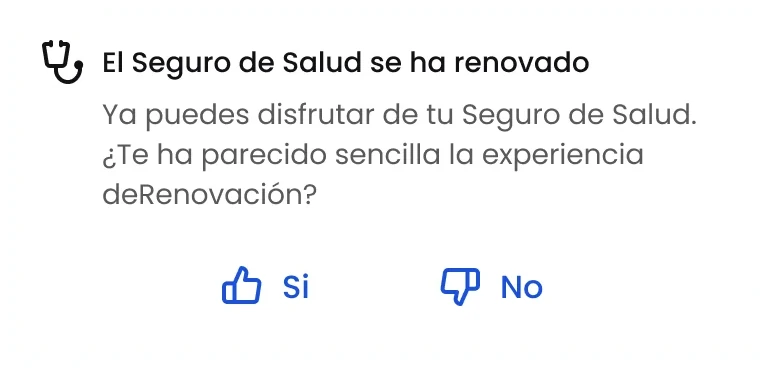
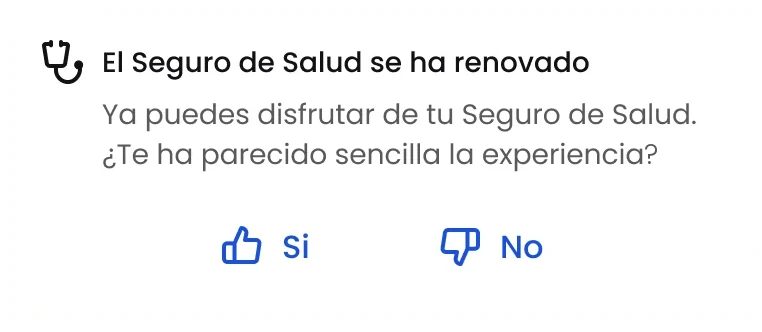
Renovaciones: pregunta in-app sin «deRenovación»
Claude-Session: https://claude.ai/code/session_01KdCYXQfu29BfYb63X4gCzQ

diff --git a/dist/portfolio.html b/dist/portfolio.html
@@ -2436,7 +2436,7 @@ const PROJECTS = [
                'Combinamos el seguimiento de incidencias con una pregunta en la app justo después de renovar: «¿Te ha parecido sencilla la experiencia?»']},
     {k:'p', t:['We analysed the answers by company and type of process to see where to dig deeper. In parallel, Product and Operations logged incidents and compared them with the previous campaign.',
                'Analizamos las respuestas por empresa y tipo de proceso para identificar dónde profundizar. En paralelo, Producto y Operaciones registraron las incidencias y las compararon con la campaña anterior.']},
-    {k:'ba', n:1, max:560, items:[[['assets/renewals-feedback-a.webp','assets/renewals-feedback-b.webp'],'',{x:36,y:76}]], cap:['The in-app question right after renewing and, after answering, the thank-you state.','La pregunta in-app justo después de renovar y, al responder, el estado de agradecimiento.']},
+    {k:'ba', n:1, max:560, items:[[['assets/renewals-feedback-a.webp','assets/renewals-feedback-b.webp'],'',{x:35,y:68}]], cap:['The in-app question right after renewing and, after answering, the thank-you state.','La pregunta in-app justo después de renovar y, al responder, el estado de agradecimiento.']},
     {k:'split', meta:['Gradual rollout: 144 companies in December 2025, 682 by 1 January 2026 · In-app question right after renewing · 702 answers','Lanzamiento progresivo: 144 empresas en diciembre de 2025 y 682 a 1 de enero de 2026 · Pregunta in-app justo después de renovar · 702 respuestas'],
       h:['The campaign in figures','La campaña en cifras'],
       items:[[['Positive answers','Respuestas positivas'],['89%','89 %'],['626 of 702 answers.','626 de 702 respuestas.'],'up'],

diff --git a/index.html b/index.html
@@ -2444,7 +2444,7 @@ const PROJECTS = [
                'Combinamos el seguimiento de incidencias con una pregunta en la app justo después de renovar: «¿Te ha parecido sencilla la experiencia?»']},
     {k:'p', t:['We analysed the answers by company and type of process to see where to dig deeper. In parallel, Product and Operations logged incidents and compared them with the previous campaign.',
                'Analizamos las respuestas por empresa y tipo de proceso para identificar dónde profundizar. En paralelo, Producto y Operaciones registraron las incidencias y las compararon con la campaña anterior.']},
-    {k:'ba', n:1, max:560, items:[[['assets/renewals-feedback-a.webp','assets/renewals-feedback-b.webp'],'',{x:36,y:76}]], cap:['The in-app question right after renewing and, after answering, the thank-you state.','La pregunta in-app justo después de renovar y, al responder, el estado de agradecimiento.']},
+    {k:'ba', n:1, max:560, items:[[['assets/renewals-feedback-a.webp','assets/renewals-feedback-b.webp'],'',{x:35,y:68}]], cap:['The in-app question right after renewing and, after answering, the thank-you state.','La pregunta in-app justo después de renovar y, al responder, el estado de agradecimiento.']},
     {k:'split', meta:['Gradual rollout: 144 companies in December 2025, 682 by 1 January 2026 · In-app question right after renewing · 702 answers','Lanzamiento progresivo: 144 empresas en diciembre de 2025 y 682 a 1 de enero de 2026 · Pregunta in-app justo después de renovar · 702 respuestas'],
       h:['The campaign in figures','La campaña en cifras'],
       items:[[['Positive answers','Respuestas positivas'],['89%','89 %'],['626 of 702 answers.','626 de 702 respuestas.'],'up'],

diff --git a/src/content.js b/src/content.js
@@ -420,7 +420,7 @@ const PROJECTS = [
                'Combinamos el seguimiento de incidencias con una pregunta en la app justo después de renovar: «¿Te ha parecido sencilla la experiencia?»']},
     {k:'p', t:['We analysed the answers by company and type of process to see where to dig deeper. In parallel, Product and Operations logged incidents and compared them with the previous campaign.',
                'Analizamos las respuestas por empresa y tipo de proceso para identificar dónde profundizar. En paralelo, Producto y Operaciones registraron las incidencias y las compararon con la campaña anterior.']},
-    {k:'ba', n:1, max:560, items:[[['assets/renewals-feedback-a.webp','assets/renewals-feedback-b.webp'],'',{x:36,y:76}]], cap:['The in-app question right after renewing and, after answering, the thank-you state.','La pregunta in-app justo después de renovar y, al responder, el estado de agradecimiento.']},
+    {k:'ba', n:1, max:560, items:[[['assets/renewals-feedback-a.webp','assets/renewals-feedback-b.webp'],'',{x:35,y:68}]], cap:['The in-app question right after renewing and, after answering, the thank-you state.','La pregunta in-app justo después de renovar y, al responder, el estado de agradecimiento.']},
     {k:'split', meta:['Gradual rollout: 144 companies in December 2025, 682 by 1 January 2026 · In-app question right after renewing · 702 answers','Lanzamiento progresivo: 144 empresas en diciembre de 2025 y 682 a 1 de enero de 2026 · Pregunta in-app justo después de renovar · 702 respuestas'],
       h:['The campaign in figures','La campaña en cifras'],
       items:[[['Positive answers','Respuestas positivas'],['89%','89 %'],['626 of 702 answers.','626 de 702 respuestas.'],'up'],
